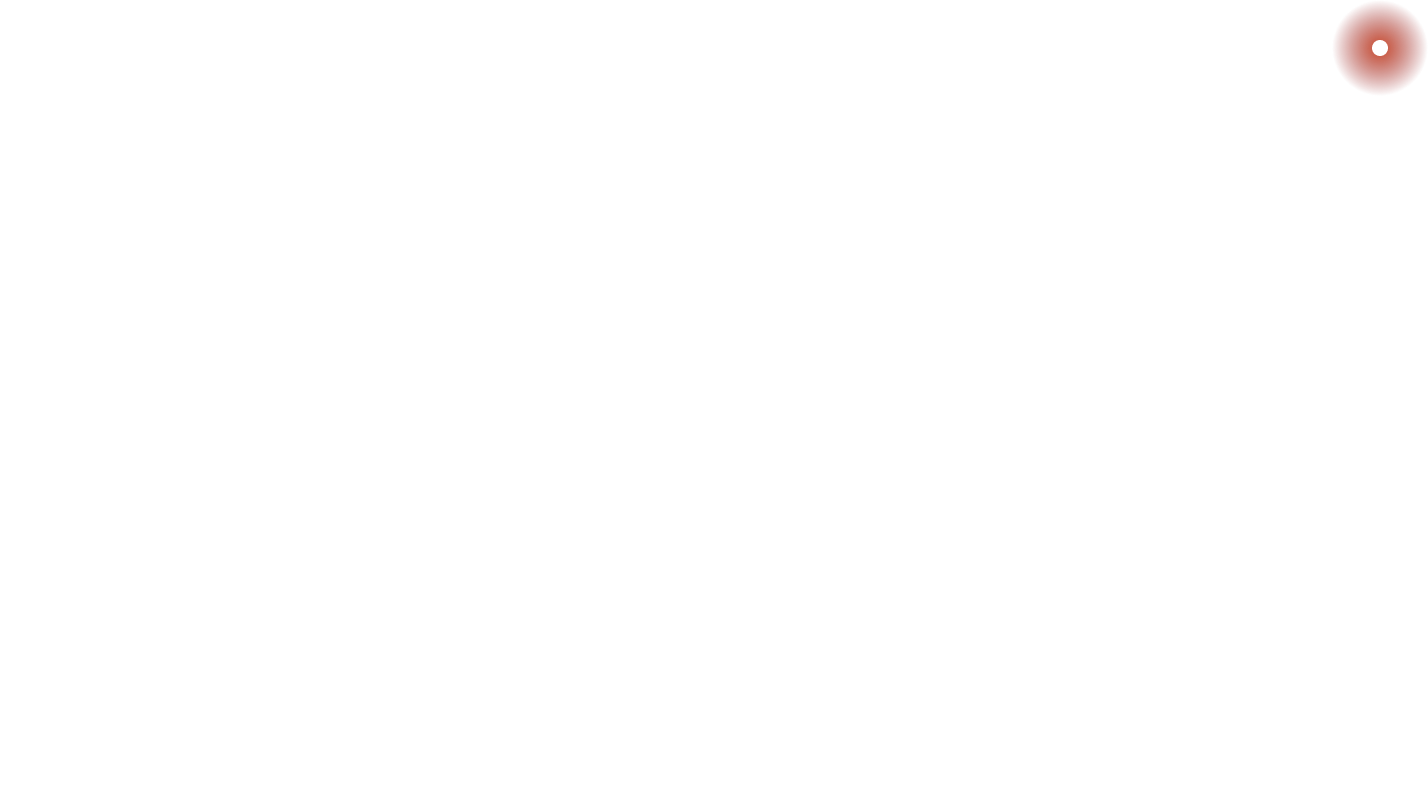
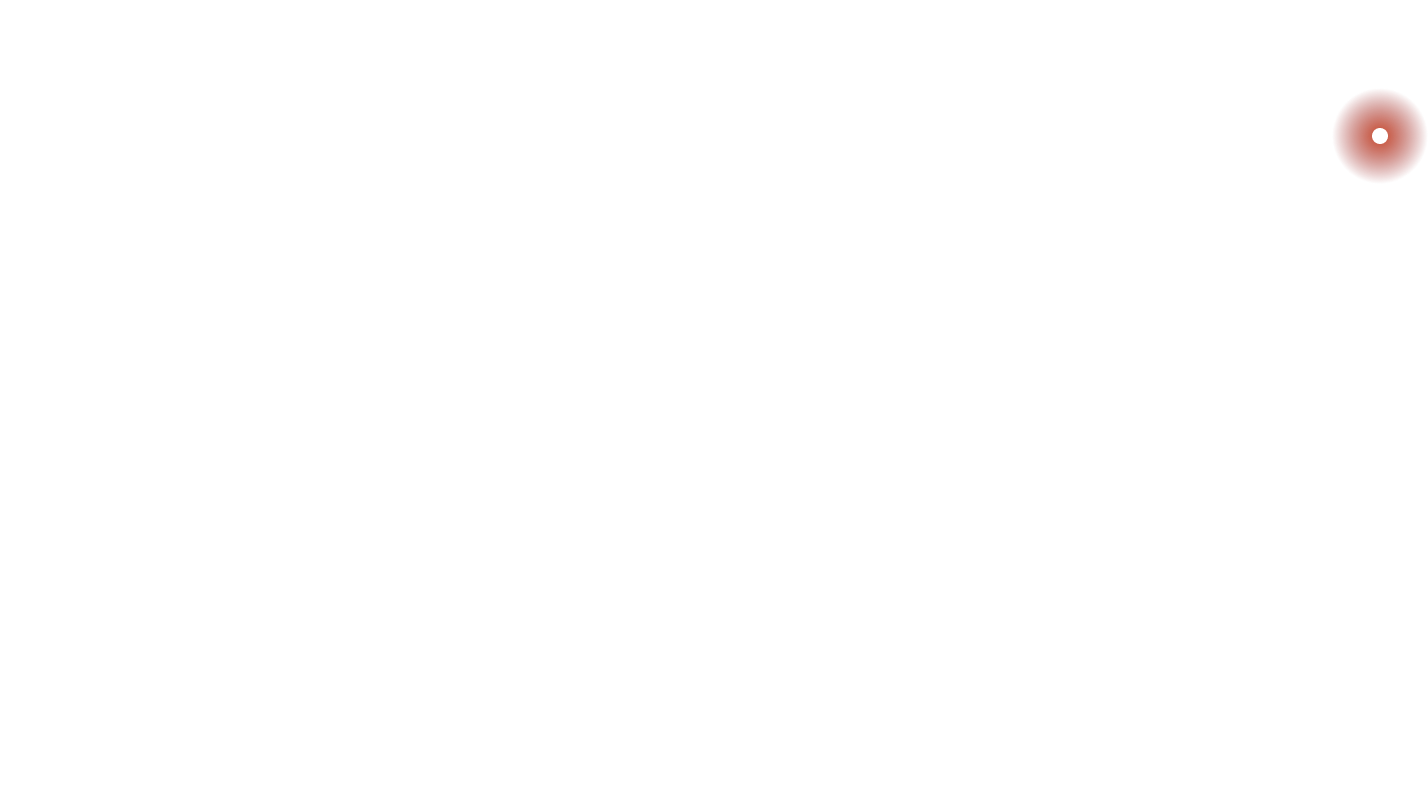
update wordings

Changed region(s): [[0.9244, 0.0, 1.0, 0.2446]]

diff --git a/src/components/DogePay/DogePayFaqs.vue b/src/components/DogePay/DogePayFaqs.vue
@@ -16,7 +16,7 @@ const faqItems = [
   },
   {
     title: "How do I get started?",
-    text: "All transactions will occur on our $DOGEPAY app (available soon in Apple App Store and Google Pay Store). Once users have downloaded the app, they will be assigned a multi-network (multi-chain) wallet address(s). You can send crypto to the $DOGEPAY wallet using your existing crypto wallets.",
+    text: "All transactions will occur on our $DOGEPAY app (available soon in Apple App Store and Google Pay Store). Once users have downloaded the app, they will be assigned a multi-network (multi-chain) wallet address(s). You can send crypto to the $DOGEPAY wallet using your existing crypto wallets. Users must have $DOGEBALL tokens in their wallet - buy in presale by clicking 'Join Presale' button above.",
   },
   {
     title: "How do I send money to bank accounts?",
@@ -27,8 +27,9 @@ const faqItems = [
     text: "There are no FX fees for conversion. As the transaction will be completed using our DOGECHAIN, there are near-zero gas fees per transaction which can be paid in $DOGEBALL only.",
   },
   {
-    title: "Is there KYC verification required?",
-    text: "No, there is no KYC verification for using $DOGEPAY to send fiat. No personal details will be collected by the app or by the $DOGEBALL team.",
+    title:
+      "Is there KYC verification required and is the DOGEPAY app licensed?",
+    text: "KYC may be required by external backpay payment providers through which our app sends payments (dependent on area and legal urisdictions). The app and service have been granted provisional licenses (currently in-process of being finalized).",
   },
   {
     title: "Is $DOGEPAY secure?",

diff --git a/src/components/Home/About.vue b/src/components/Home/About.vue
@@ -54,9 +54,7 @@ const aboutCardColClass = (i) => [
         <div class="title">
           {{ t("about.subtitle") }}
         </div>
-        <div
-          class="font-grotesk text-base font-medium md:text-xl max-w-[730px]"
-        >
+        <div class="font-grotesk text-base font-medium md:text-xl max-w-5xl">
           {{ t("about.description") }}
         </div>
       </div>

diff --git a/src/components/DogePay/DogePayDescription2.vue b/src/components/DogePay/DogePayDescription2.vue
@@ -28,7 +28,7 @@ const features = [
   {
     icon: settlementIcon,
     title: "Instant settlement",
-    body: "Transactions confirmed on-chain and settled into recipient's bank account in under 30 seconds.",
+    body: "Transactions confirmed on-chain and settled into recipient's bank account in minutes.",
   },
 ];
 </script>
